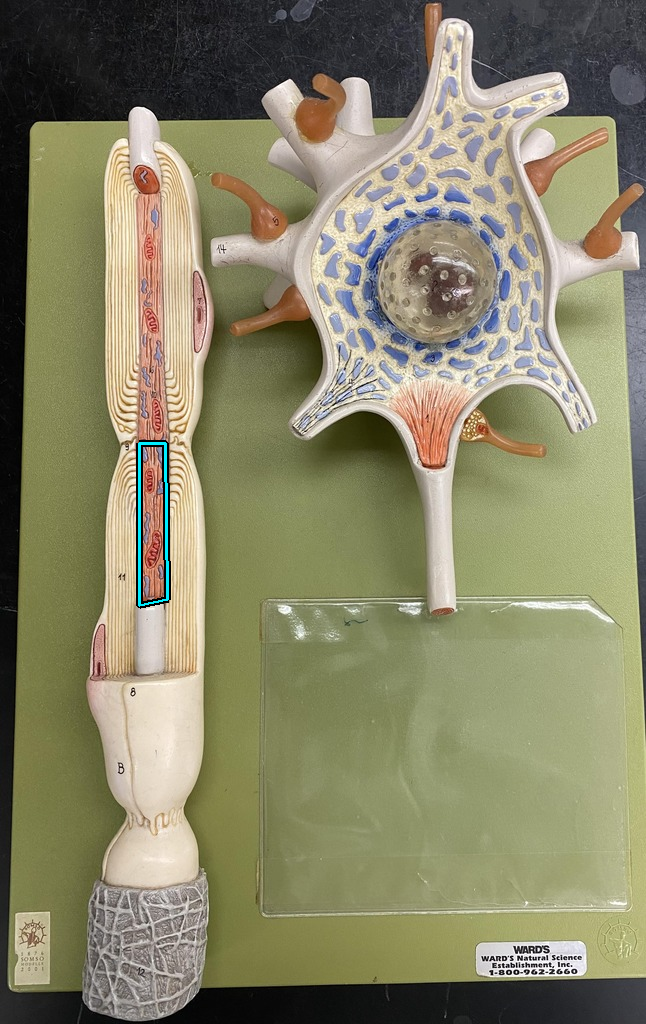
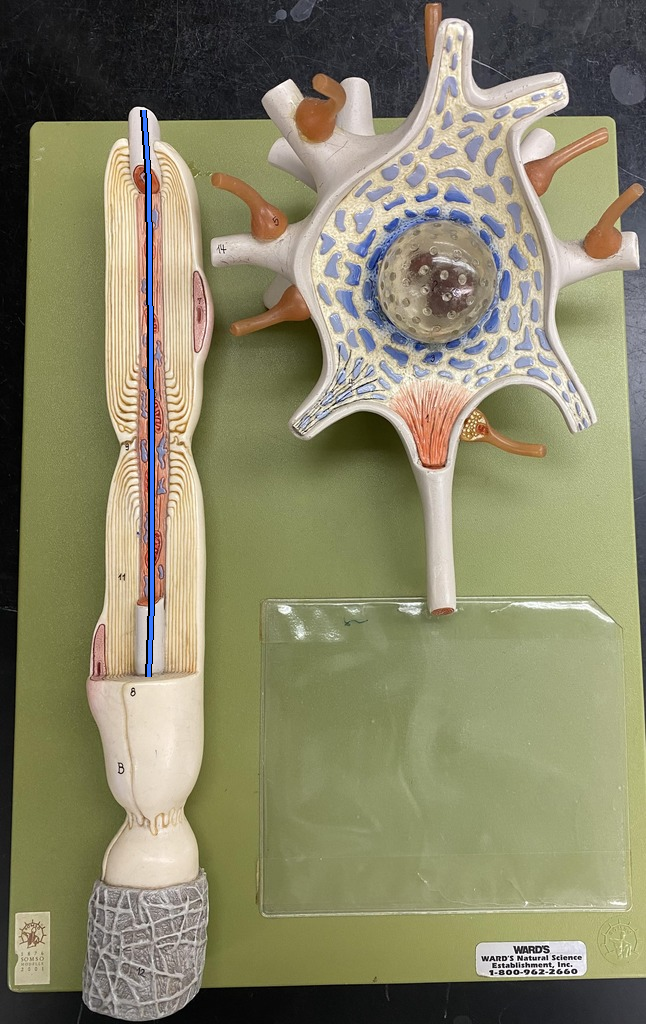
Remove Schwann cell question and mark full axon segments with blue lines

Changed region(s): [[0.1858, 0.0938, 0.2786, 0.6562]]

diff --git a/tests/neuron.test.js b/tests/neuron.test.js
@@ -6,17 +6,17 @@ import { execFileSync } from 'node:child_process';
 import { LAB_SETS, labModelsMessage, labQuestions, labModelImage } from '../src/services/study/labModels.js';
 import { matchesLabAnswer } from '../src/services/study/answerMatching.js';
 const manifest=JSON.parse(readFileSync(new URL('../study-data/lab-models/neuron.json',import.meta.url)));
-test('3D Neuron Model contains all 14 requested entries, including two distinct axon views',()=>{
- const set=LAB_SETS.find(s=>s.id==='neuron');assert.equal(set.title,'3D Neuron Model');assert.equal(set.category,'nervous');assert.equal(set.models.length,14);
- assert.deepEqual(set.models.map(m=>m.name),['Soma','Nissl bodies','Dendrite','Synaptic knob','Axon hillock','Initial segment','Axon','Axon','Schwann cell nucleus','Neurolemma','Endoneurium','Node of Ranvier','Schwann cell','Myelin sheath']);
- assert.equal(new Set(set.models.map(m=>m.id)).size,14);assert.equal(new Set(set.models.map(m=>m.expectedImageFile)).size,14);
+test('3D Neuron Model contains 13 entries without the removed Schwann cell question, including two distinct axon views',()=>{
+ const set=LAB_SETS.find(s=>s.id==='neuron');assert.equal(set.title,'3D Neuron Model');assert.equal(set.category,'nervous');assert.equal(set.models.length,13);
+ assert.deepEqual(set.models.map(m=>m.name),['Soma','Nissl bodies','Dendrite','Synaptic knob','Axon hillock','Initial segment','Axon','Axon','Schwann cell nucleus','Neurolemma','Endoneurium','Node of Ranvier','Myelin sheath']);
+ assert.equal(new Set(set.models.map(m=>m.id)).size,13);assert.equal(new Set(set.models.map(m=>m.expectedImageFile)).size,13);
  const axons=set.models.filter(m=>m.name==='Axon');assert.notEqual(axons[0].viewLabel,axons[1].viewLabel);
  const ids=labModelsMessage('u','nervous').components[0].toJSON().components[0].options.map(o=>o.value);
  assert.ok(ids.includes('neuron'));assert.ok(ids.includes('brain-left-sagittal'));assert.ok(ids.includes('spinal-nerves'));assert.ok(!ids.includes('spinal-cord'));
 });
 test('both answer modes use the marked full photo and accept anatomical aliases without duplicate axon choices',()=>{
  for(const mode of ['multiple_choice','typed']){
-  const qs=labQuestions('neuron',mode);assert.equal(qs.length,14);
+  const qs=labQuestions('neuron',mode);assert.equal(qs.length,13);
   for(const q of qs){const model=manifest.models.find(m=>m.id===q.labModelId),image=labModelImage(q);assert.ok(image);
    assert.equal(createHash('sha256').update(readFileSync(image.path)).digest('hex'),model.imageSha256);
    if(mode==='multiple_choice'){assert.equal(q.options.length,4);assert.equal(new Set(q.options).size,4);assert.equal(q.options[q.correct[0]],q.modelName);}
@@ -41,6 +41,14 @@ for model in data['models']:
  card=Image.open(root/'study-assets/lab-models'/model['expectedImageFile']).convert('RGB');assert card.size==original.size
  box=ImageChops.difference(original,card).getbbox();assert box
  b=model['annotation']['bounds'];assert b[0]<=box[0]<box[2]<=b[2] and b[1]<=box[1]<box[3]<=b[3],model['name']
-print('14 complete, unscaled, pixel-preserving model photos verified')
-`],{cwd:new URL('..',import.meta.url),encoding:'utf8'});assert.match(result,/14 complete, unscaled/);
+print('13 complete, unscaled, pixel-preserving model photos verified')
+`],{cwd:new URL('..',import.meta.url),encoding:'utf8'});assert.match(result,/13 complete, unscaled/);
+});
+
+
+test('axon cards mark the entire segment with long blue lines and retain the nucleus question',()=>{
+ const axons=manifest.models.filter(m=>m.name==='Axon');assert.equal(axons.length,2);
+ for(const model of axons){assert.equal(model.annotation.kind,'axon-long-line');const ys=model.annotation.points.map(p=>p[1]);assert.ok(Math.max(...ys)-Math.min(...ys)>100);assert.match(model.questions[0].question,/entire segment.*long blue line/);}
+ assert.ok(manifest.models.some(m=>m.name==='Schwann cell nucleus'));
+ for(const model of manifest.models)for(const q of model.questions)assert.ok(!q.options.includes('Schwann cell'));
 });

diff --git a/scripts/renderNeuron.py b/scripts/renderNeuron.py
@@ -14,6 +14,8 @@ def main():
    tip=(x-ux*8,y-uy*8);base=(tip[0]-ux*12,tip[1]-uy*12);tri=[tip,(base[0]-uy*6,base[1]+ux*6),(base[0]+uy*6,base[1]-ux*6)]
    draw.line([tuple(tail),base],fill='black',width=7);draw.line([tuple(tail),base],fill='#00edff',width=3);draw.polygon(tri,fill='#00edff',outline='black',width=1)
    draw.ellipse((x-7,y-7,x+7,y+7),outline='black',width=3);draw.ellipse((x-5,y-5,x+5,y+5),outline='#00edff',width=2)
+  elif a['kind']=='axon-long-line':
+   points=[tuple(p) for p in a['points']];draw.line(points,fill='black',width=7,joint='curve');draw.line(points,fill='#3979ff',width=4,joint='curve')
   else:
    points=[tuple(p) for p in a['points']];draw.line(points,fill='black',width=7,joint='curve');draw.line(points,fill='#00edff',width=3,joint='curve')
   assert model['view']=={'crop':[0,0,646,1024],'scale':1}

diff --git a/docs/neuron-lab.md b/docs/neuron-lab.md
@@ -2,9 +2,9 @@
 
 Open `/test` (or `/quiz`) → Anatomy and Physiology Lab → Nervous System → 3D Neuron Model.
 
-The set contains the user's 14 entries: soma, Nissl bodies, dendrite, synaptic knob, axon hillock, initial segment, two axon views, Schwann cell nucleus, neurolemma, endoneurium, node of Ranvier, Schwann cell, and myelin sheath. Both multiple-choice and typed-answer modes are available. Accepted typed aliases include cell body, perikaryon, synaptic bouton, neurolemmocyte, and neurilemma.
+The set contains 13 entries after removing the whole Schwann cell question: soma, Nissl bodies, dendrite, synaptic knob, axon hillock, initial segment, two axon views, Schwann cell nucleus, neurolemma, endoneurium, node of Ranvier, and myelin sheath. Both multiple-choice and typed-answer modes are available. Accepted typed aliases include cell body, perikaryon, synaptic bouton, neurolemmocyte, and neurilemma.
 
-Every card shows the entire original 646×1024 photograph, with no cropping or enlargement, as requested. The soma is outlined, the exposed longitudinal axon is outlined, and the whole Schwann cell is bracketed; other targets have cyan arrows and open rings. No answer labels are added to the images. The two axon entries have separate images and question IDs, with the same accepted axon answers.
+Every card shows the entire original 646×1024 photograph, with no cropping or enlargement, as requested. The soma is outlined, both axon views have a long blue line along the full visible segment, and other targets have cyan arrows and open rings. The Schwann cell nucleus question remains; the whole Schwann cell question is removed. No answer labels are added to the images. The two axon entries have separate images and question IDs, with the same accepted axon answers.
 
 Source: `Neuron.jpg` from the uploaded `Neuron.jpg.zip`, the user-provided term list, and the matching reference screenshot. The source JPEG is retained byte-for-byte as `neuron-original.jpg`; its SHA-256 is recorded in the manifest. The renderer preserves every decoded source pixel outside the recorded marker bounds.
 
